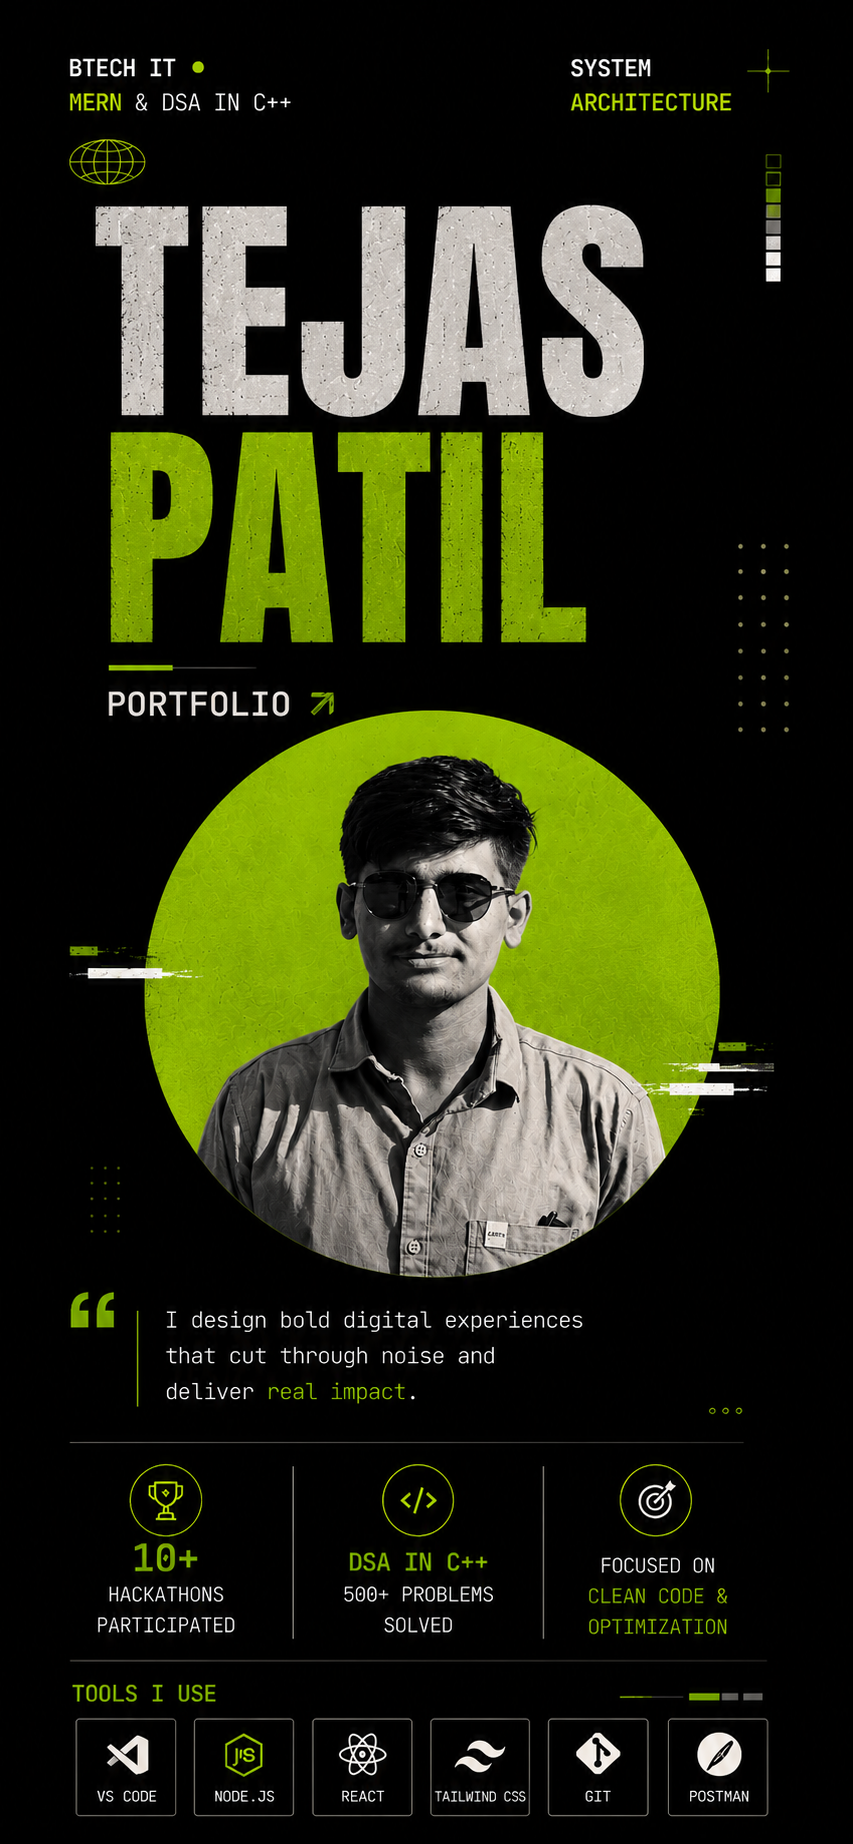
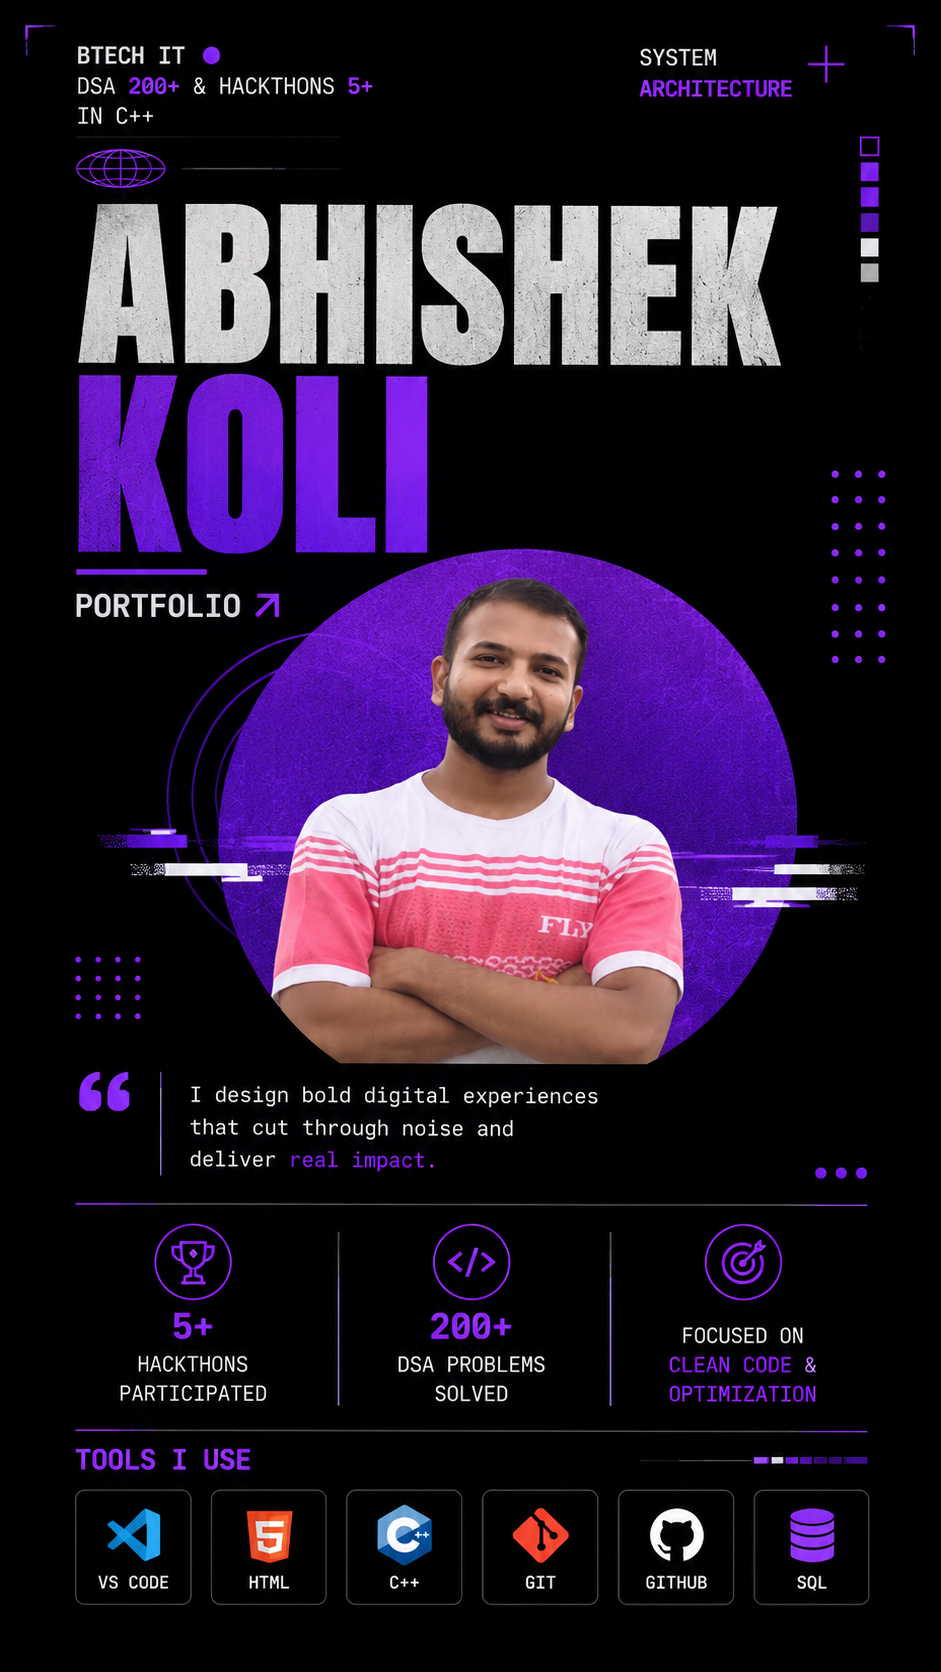
add new update

diff --git a/index.html b/index.html
@@ -3,9 +3,9 @@
 <head>
   <meta charset="UTF-8" />
   <meta name="viewport" content="width=device-width, initial-scale=1.0" />
-  <title>Tejas Patil — Full-Stack MERN Developer & DSA Specialist</title>
-  <meta name="description" content="Portfolio of Tejas Patil — B.Tech IT student, Full-Stack MERN developer, and DSA specialist crafting high-performance digital experiences." />
-  <meta name="keywords" content="Tejas Patil, Full-Stack Developer, MERN Stack, React, Node.js, C++, DSA, Portfolio, IT Student, Shirpur" />
+  <title>Abhishek Koli — Full-Stack MERN Developer & DSA Specialist</title>
+  <meta name="description" content="Portfolio of Abhishek Koli — B.Tech IT student, Full-Stack MERN developer, and DSA specialist crafting high-performance digital experiences." />
+  <meta name="keywords" content="Abhishek Koli, Full-Stack Developer, MERN Stack, React, Node.js, C++, DSA, Portfolio, IT Student" />
 
   <!-- Google Fonts -->
   <link rel="preconnect" href="https://fonts.googleapis.com" />
@@ -22,10 +22,10 @@
   <!-- ==================================================================== -->
   <section id="hero" class="hero-section" oncontextmenu="return false;" onselectstart="return false;">
     <!-- Desktop Hero Artwork -->
-    <img src="assets/desktop-hero-ref.png" alt="Tejas Patil — Hero Section" class="hero-img desktop-hero" draggable="false" ondragstart="return false;" oncontextmenu="return false;" />
+    <img src="assets/desktop-hero-ref.png" alt="Abhishek Koli — Hero Section" class="hero-img desktop-hero" draggable="false" ondragstart="return false;" oncontextmenu="return false;" />
     
     <!-- Mobile Hero Artwork -->
-    <img src="assets/mobile-hero-ref.png" alt="Tejas Patil — Hero Section" class="hero-img mobile-hero" draggable="false" ondragstart="return false;" oncontextmenu="return false;" />
+    <img src="assets/mobile-hero-ref.png" alt="Abhishek Koli — Hero Section" class="hero-img mobile-hero" draggable="false" ondragstart="return false;" oncontextmenu="return false;" />
 
     <!-- Desktop Floating Oval Right Navbar (Expandable on Hover / Click) -->
     <nav class="desktop-oval-navbar collapsed" id="desktop-oval-navbar" aria-label="Desktop Hero Navigation">
@@ -80,10 +80,10 @@
     <!-- Interactive Hero Hotspots & Links -->
     <div class="hero-interactive-overlay">
       <!-- GitHub Hotspot -->
-      <a href="https://github.com/Tejaspatil1175" target="_blank" rel="noreferrer" class="hero-hotspot hotspot-github" title="GitHub Profile"></a>
+      <a href="https://github.com/abhishekkoli" target="_blank" rel="noreferrer" class="hero-hotspot hotspot-github" title="GitHub Profile"></a>
 
       <!-- LinkedIn Hotspot -->
-      <a href="https://www.linkedin.com/in/tejaspatil-dev/" target="_blank" rel="noreferrer" class="hero-hotspot hotspot-linkedin" title="LinkedIn Profile"></a>
+      <a href="https://www.linkedin.com/in/abhishek-koli/" target="_blank" rel="noreferrer" class="hero-hotspot hotspot-linkedin" title="LinkedIn Profile"></a>
     </div>
   </section>
 
@@ -115,7 +115,7 @@
             <div class="project-thumb-compact dark-theme">
               <span class="thumb-label text-acid">FINSEC</span>
             </div>
-            <a href="https://github.com/Tejaspatil1175" target="_blank" rel="noreferrer" class="proj-arrow-btn">↗</a>
+            <a href="https://github.com/abhishekkoli" target="_blank" rel="noreferrer" class="proj-arrow-btn">↗</a>
           </article>
 
           <!-- Project 02: CROPCONNECT -->
@@ -129,7 +129,7 @@
             <div class="project-thumb-compact acid-theme">
               <span class="thumb-label text-dark">CROP</span>
             </div>
-            <a href="https://github.com/Tejaspatil1175/cropconnect-app" target="_blank" rel="noreferrer" class="proj-arrow-btn">↗</a>
+            <a href="https://github.com/abhishekkoli/cropconnect-app" target="_blank" rel="noreferrer" class="proj-arrow-btn">↗</a>
           </article>
 
           <!-- Project 03: AGENTS.ROOM -->
@@ -143,7 +143,7 @@
             <div class="project-thumb-compact mobile-theme">
               <span class="thumb-label text-acid">AGENTS</span>
             </div>
-            <a href="https://github.com/Tejaspatil1175/agents.room" target="_blank" rel="noreferrer" class="proj-arrow-btn">↗</a>
+            <a href="https://github.com/abhishekkoli/agents.room" target="_blank" rel="noreferrer" class="proj-arrow-btn">↗</a>
           </article>
 
         </div>
@@ -332,83 +332,73 @@
 
     </div>
 
-    <!-- ROW 2.5: ACHIEVEMENTS & HONORS -->
+    <!-- ROW 2.5: SOFT SKILLS & HOBBIES -->
     <section id="achievements" class="content-card achievements-card">
       <div class="card-title-bar">
-        <span class="eyebrow-text">ACHIEVEMENTS &amp; HONORS</span>
-        <span class="meta-tag">[ RECOGNITION &amp; METRICS ]</span>
+        <span class="eyebrow-text">SOFT SKILLS &amp; HOBBIES</span>
+        <span class="meta-tag">[ PERSONAL &amp; PROFESSIONAL TRAITS ]</span>
       </div>
 
       <div class="achievements-grid">
         
-        <!-- 01: GSMA Nokia IMC Hackathon -->
+        <!-- 01: Reading -->
         <div class="achievement-item">
           <span class="ach-num">01</span>
           <div class="ach-content">
-            <h4 class="ach-title">GSMA CONNECTED HACKATHON (NOKIA APIs)</h4>
-            <p class="ach-desc">Top 10 Finalist out of 1,800+ teams at Yashobhoomi New Delhi (IMC 2025). Built FinSecure backend with Nokia Network APIs.</p>
+            <h4 class="ach-title">READING &amp; CONTINUOUS LEARNING</h4>
+            <p class="ach-desc">Passionate about reading tech books, innovation articles, and staying updated with emerging technologies.</p>
           </div>
-          <span class="ach-tag text-acid">TOP 10 FINALIST</span>
+          <span class="ach-tag text-acid">HOBBY &amp; LEARNING</span>
         </div>
 
-        <!-- 02: TECHgium LTTS -->
+        <!-- 02: Playing Cricket -->
         <div class="achievement-item">
           <span class="ach-num">02</span>
           <div class="ach-content">
-            <h4 class="ach-title">TECHgium® 9TH EDITION (LTTS)</h4>
-            <p class="ach-desc">National Finalist with Helios AI — GenAI-Powered Oracle for Predictive Solar Farm Management.</p>
+            <h4 class="ach-title">PLAYING CRICKET &amp; SPORTS</h4>
+            <p class="ach-desc">Enthusiastic cricket player. Fosters team collaboration, quick decision-making under pressure, and strategic focus.</p>
           </div>
-          <span class="ach-tag text-acid">FINAL ROUND</span>
+          <span class="ach-tag text-acid">TEAM SPORTS</span>
         </div>
 
-        <!-- 03: Globathon 2025 -->
+        <!-- 03: Problem Solving -->
         <div class="achievement-item">
           <span class="ach-num">03</span>
           <div class="ach-content">
-            <h4 class="ach-title">GLOBATHON 2025 (GLOBATECH PUNE)</h4>
-            <p class="ach-desc">Shortlisted Top 8 out of 117 teams. Built Finora AI financial analyst platform in a 10-hour hackathon marathon.</p>
+            <h4 class="ach-title">PROBLEM SOLVING &amp; LOGICAL THINKING</h4>
+            <p class="ach-desc">Tackling complex coding puzzles with structured logic, optimization techniques, and systematic analysis.</p>
           </div>
-          <span class="ach-tag text-acid">TOP 8 TEAMS</span>
+          <span class="ach-tag text-acid">CORE TRAIT</span>
         </div>
 
-        <!-- 04: Tesco dunnhumby InnovAItion Jam -->
+        <!-- 04: Communication & Teamwork -->
         <div class="achievement-item">
           <span class="ach-num">04</span>
           <div class="ach-content">
-            <h4 class="ach-title">TESCO RETAIL MEDIA InnovAItion JAM</h4>
-            <p class="ach-desc">Finalist Top 8 out of 8,700+ registrations nationwide powered by dunnhumby. Built RetailSyncAI GenAI builder.</p>
+            <h4 class="ach-title">EFFECTIVE COMMUNICATION &amp; TEAMWORK</h4>
+            <p class="ach-desc">Articulating technical concepts clearly, actively listening, and collaborating smoothly in dev team settings.</p>
           </div>
-          <span class="ach-tag text-acid">TOP 8 FINALIST</span>
+          <span class="ach-tag text-acid">COLLABORATION</span>
         </div>
 
-        <!-- 05: Innovent Sobus NMIMS (Lokmat & Pune Nagari) -->
+        <!-- 05: Adaptability -->
         <div class="achievement-item">
           <span class="ach-num">05</span>
           <div class="ach-content">
-            <h4 class="ach-title">INNOVENT BY SOBUS @ NMIMS SHIRPUR</h4>
-            <p class="ach-desc">Secured 3rd Place with CropConnect AgriTech startup. Featured in Lokmat &amp; Pune Nagari newspapers!</p>
+            <h4 class="ach-title">ADAPTABILITY &amp; AGILITY</h4>
+            <p class="ach-desc">Rapidly adopting new programming languages, modern frameworks, and methodologies across projects.</p>
           </div>
-          <span class="ach-tag text-acid">3RD PLACE WINNER</span>
+          <span class="ach-tag text-acid">AGILITY</span>
         </div>
 
-        <!-- 06: Udaan Innovation Competition -->
+        <!-- 06: Time Management -->
         <div class="achievement-item">
           <span class="ach-num">06</span>
           <div class="ach-content">
-            <h4 class="ach-title">UDAAN INNOVATION COMPETITION</h4>
-            <p class="ach-desc">Secured 1st Place Champion in regional innovation and entrepreneurship showcase.</p>
+            <h4 class="ach-title">TIME MANAGEMENT &amp; DISCIPLINE</h4>
+            <p class="ach-desc">Balancing engineering academics, full-stack projects, and physical activities with consistent discipline.</p>
           </div>
-          <span class="ach-tag text-acid">1ST PLACE WINNER</span>
-        </div>
-
-        <!-- 07: Codesphere GCOEJ -->
-        <div class="achievement-item">
-          <span class="ach-num">07</span>
-          <div class="ach-content">
-            <h4 class="ach-title">CODESPHERE 24-HR HACKATHON @ GCOEJ</h4>
-            <p class="ach-desc">Finalist at 24-hour hackathon organized by GCOEJ Jalgaon &amp; sponsored by Jain Irrigation.</p>
-          </div>
-          <span class="ach-tag text-acid">FINALIST</span>
+          <span class="ach-tag text-acid">DISCIPLINE</span>
         </div>
 
       </div>
@@ -428,14 +418,14 @@
       <div class="create-real-side">
         <div class="contact-info-block">
           <span class="info-label">CONTACT</span>
-          <a href="mailto:tejaspatil1175@gmail.com" class="info-val">tejaspatil1175@gmail.com</a>
+          <a href="mailto:abhishekkoli.dev@gmail.com" class="info-val">abhishekkoli.dev@gmail.com</a>
           <span class="info-val">+91 93226 77145</span>
         </div>
 
         <div class="contact-info-block">
           <span class="info-label">FOLLOW</span>
-          <a href="https://github.com/Tejaspatil1175" target="_blank" rel="noreferrer" class="info-val">@Tejaspatil1175</a>
-          <a href="https://www.linkedin.com/in/tejaspatil-dev/" target="_blank" rel="noreferrer" class="info-val">/in/tejaspatil-dev</a>
+          <a href="https://github.com/abhishekkoli" target="_blank" rel="noreferrer" class="info-val">@abhishekkoli</a>
+          <a href="https://www.linkedin.com/in/abhishek-koli/" target="_blank" rel="noreferrer" class="info-val">/in/abhishek-koli</a>
         </div>
 
         <button class="work-together-btn copy-email-trigger" title="Work Together — Copy Email">
@@ -456,7 +446,7 @@
 
   <!-- FOOTER BAR -->
   <footer class="site-footer">
-    <div class="footer-left-brand"><span class="text-white bold">TEJAS PATIL PORTFOLIO</span></div>
+    <div class="footer-left-brand"><span class="text-white bold">ABHISHEK KOLI PORTFOLIO</span></div>
     <div class="footer-center-tag">DESIGN. STRATEGY. IMPACT.</div>
     <div class="footer-right-scroll">THANKS FOR SCROLLING</div>
   </footer>

diff --git a/style.css b/style.css
@@ -1,5 +1,5 @@
 /* ==========================================================================
-   TEJAS PATIL PORTFOLIO — RESPONSIVE DESIGN SYSTEM & LAYOUT
+   ABHISHEK KOLI PORTFOLIO — RESPONSIVE DESIGN SYSTEM & LAYOUT
    ========================================================================== */
 
 /* 1. GLOBAL RESET & BOX-SIZING */
@@ -10,12 +10,14 @@
 }
 
 :root {
-  --acid-green: #a3ff12;
-  --bg-dark: #070807;
-  --bg-card: #0a0b0a;
-  --border-acid: #22251d;
-  --text-white: #e5e7e0;
-  --text-muted: #9ea393;
+  --acid-green: #b026ff;
+  --purple-glow: #a855f7;
+  --bg-dark: #070510;
+  --bg-card: #0c081c;
+  --border-acid: #251642;
+  --border-purple: #3b1d6e;
+  --text-white: #f3e8ff;
+  --text-muted: #a79bbb;
   --text-dark: #000000;
   
   --font-bebas: "Bebas Neue", sans-serif;
@@ -47,7 +49,7 @@ body {
 
 /* Paper noise texture overlay */
 .acid-noise {
-  background-image: radial-gradient(rgba(163, 255, 18, 0.03) 1px, transparent 0);
+  background-image: radial-gradient(rgba(176, 38, 255, 0.05) 1px, transparent 0);
   background-size: 24px 24px;
 }
 
@@ -109,7 +111,7 @@ body {
 .pixel-cell {
   width: 100%;
   height: 100%;
-  border: 1px solid rgba(163, 255, 18, 0.008);
+  border: 1px solid rgba(176, 38, 255, 0.015);
   background-color: transparent;
   border-radius: 1px;
   transition: transform 0.35s cubic-bezier(0.16, 1, 0.3, 1), background-color 0.35s ease, box-shadow 0.35s ease, border-color 0.35s ease;
@@ -117,9 +119,9 @@ body {
 
 .pixel-cell:hover, .pixel-cell.active {
   transform: scale(1.6) translateY(-1px);
-  background-color: rgba(163, 255, 18, 0.12);
-  border-color: rgba(163, 255, 18, 0.25);
-  box-shadow: 0 0 6px rgba(163, 255, 18, 0.18);
+  background-color: rgba(176, 38, 255, 0.25);
+  border-color: rgba(176, 38, 255, 0.4);
+  box-shadow: 0 0 8px rgba(176, 38, 255, 0.35);
   z-index: 15;
 }
 

diff --git a/script.js b/script.js
@@ -7,7 +7,7 @@ document.addEventListener("DOMContentLoaded", () => {
   // 1. COPY EMAIL TO CLIPBOARD
   const emailTriggers = document.querySelectorAll("#copy-email-btn, #main-contact-btn, .copy-email-trigger");
 
-  const emailToCopy = "tejaspatil1175@gmail.com";
+  const emailToCopy = "abhishekkoli.dev@gmail.com";
 
   function handleCopyEmail() {
     navigator.clipboard.writeText(emailToCopy).then(() => {
